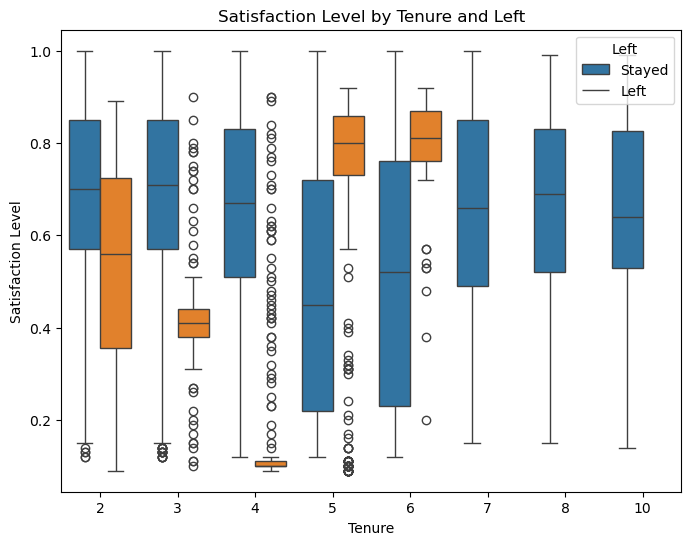
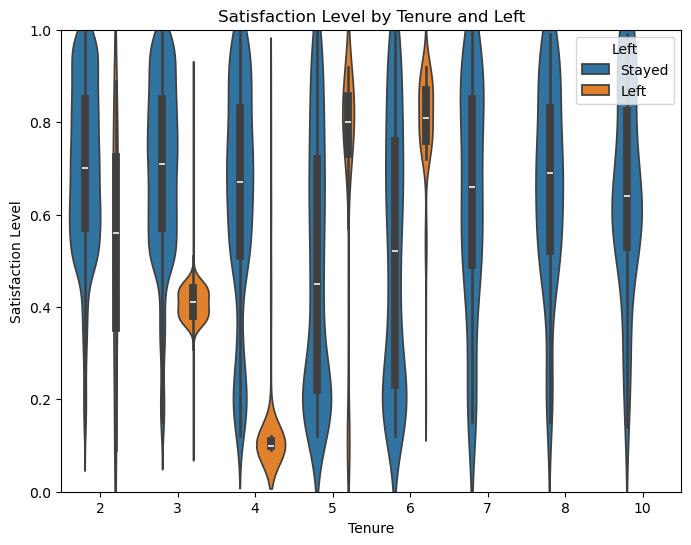
docs: update README.md

diff --git a/README.md b/README.md
@@ -1,35 +1,41 @@
 # Salifort Motors - Google Advanced Data Analytics Capstone
 
-A data analytics capstone project exploring employee attrition and workforce trends at the fictional auto company, Salifort Motors. This project combines data wrangling, exploratory data analysis, statistical modeling, and machine learning to support strategic HR decision-making.
+A machine learning data analytics capstone project exploring employee attrition and workforce trends at the fictional auto company, Salifort Motors.
 
----
-
-## Table of Contents
+Project results are hosted online as a web document [here](https://johbry17.github.io/Salifort-Motors-Google-Advanced-Data-Analytics-Capstone/index.html).
 
 - [Description](#description)
+- [Features](#features)
 - [Usage](#usage)
 - [Gallery](#gallery)
 - [References](#references)
-- [Licenses](#licenses)
+- [License](#license)
 - [Acknowledgements](#acknowledgements)
 - [Author](#author)
 
----
-
 ## Description
 
-This project investigates the drivers of employee attrition at Salifort Motors using a real-world-inspired HR dataset. The workflow includes:
+This project investigates the drivers of employee attrition at Salifort Motors using a real-world-inspired HR dataset, and includes statistical modeling and machine learning to support strategic HR decision-making. The workflow includes:
 - Data cleaning and preprocessing
 - Exploratory data analysis (EDA)
 - Predictive modeling (Logistic Regression, Decision Tree, Random Forest, XGBoost)
 - Model evaluation and interpretation
+- Results communicated online, for both technical and general audiences
 - Business recommendations for employee retention
 
 All analysis is performed in Python using Jupyter Notebooks.
 
----
+## Features
+
+- Interactive and visually-rich exploratory data analysis
+- Multiple machine learning models for attrition prediction
+- SHAP and feature importance visualizations for model interpretability
+- Clean, web-friendly presentation of results for technical and non-technical audiences
+- Actionable business recommendations
 
 ## Usage
+
+All analysis can be found online at [project site](https://johbry17.github.io/Salifort-Motors-Google-Advanced-Data-Analytics-Capstone/index.html).
 
 1. Clone the repository.
 2. Install required dependencies from `requirements.txt`.
@@ -44,36 +50,34 @@ All analysis is performed in Python using Jupyter Notebooks.
 
 Sample visualizations and results:
 
-![Stisfaction Level vs Average Monthly Hours Plot](./resources/images/satisfaction_vs_average_monthly_hours.png)
-
-![Box Plot of Satisfaction Level vs Average Monthly Hours Plot](./resources/images/box_plot_satisfaction_tenure.png)
+![Satisfaction Level vs Average Monthly Hours Plot](./resources/images/satisfaction_vs_average_monthly_hours.png)
 
 ![Confusion Matrix Results](./resources/images/confusion_matrix_results.png)
 
+![XGBoost SHAP Summary](./resources/images/xgboost_shap.png)
 
+![Misclassified Predicted Probability](./resources/images/predicted_probability_misclassified.png)
 
----
+![Decision Tree](./resources/images/decision_tree.png)
+
+![Promotion](./resources/images/promotion.png)
+
+![Feature Importances](./resources/images/feature_importances.png)
 
 ## References
 
 - [Google Advanced Data Analytics Capstone](https://www.coursera.org/professional-certificates/google-advanced-data-analytics)
 - [Kaggle HR Analytics Dataset](https://www.kaggle.com/datasets/ludobenistant/hr-analytics-job-change-of-data-scientists) (inspiration)
 
----
+## License
 
-## Licenses
-
-This project is for educational purposes only. See [LICENSE](LICENSE) for details.
-
----
+This project is licensed under the MIT License. See [LICENSE](LICENSE) for details.
 
 ## Acknowledgements
 
 Many thanks for header and style inspiration to Start Bootstrap's Clean Blog v6.0.9 (https://startbootstrap.com/theme/clean-blog). Copyright 2013-2023 Start Bootstrap. Licensed under MIT (https://github.com/StartBootstrap/startbootstrap-clean-blog/blob/master/LICENSE)
 
 Many thanks also to Google and Coursera for the capstone framework and the opportunity to learn.
-
----
 
 ## Author
 
